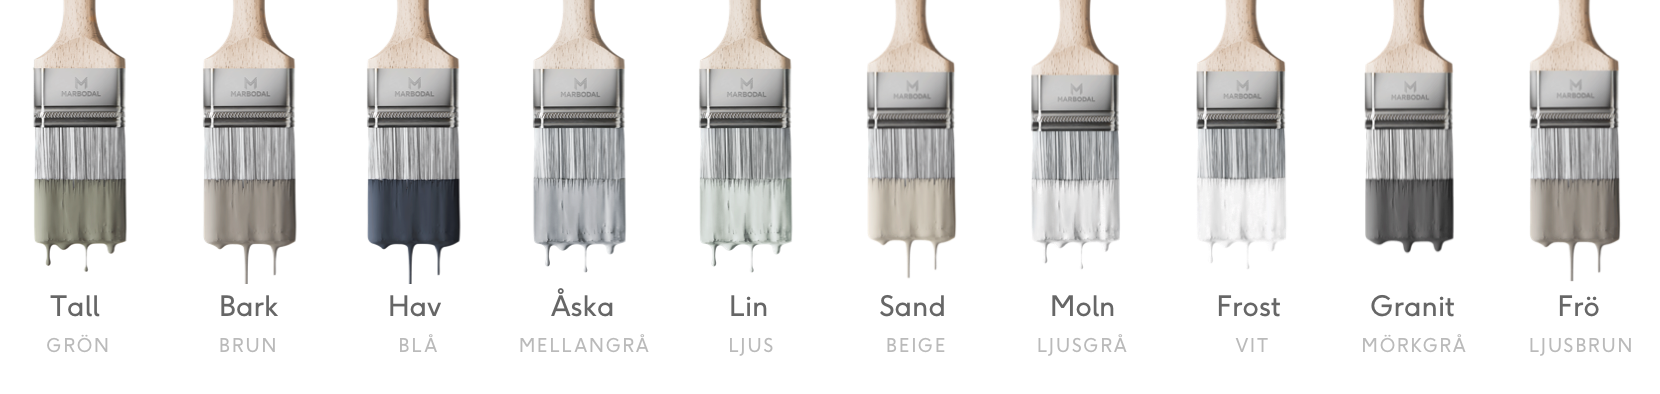
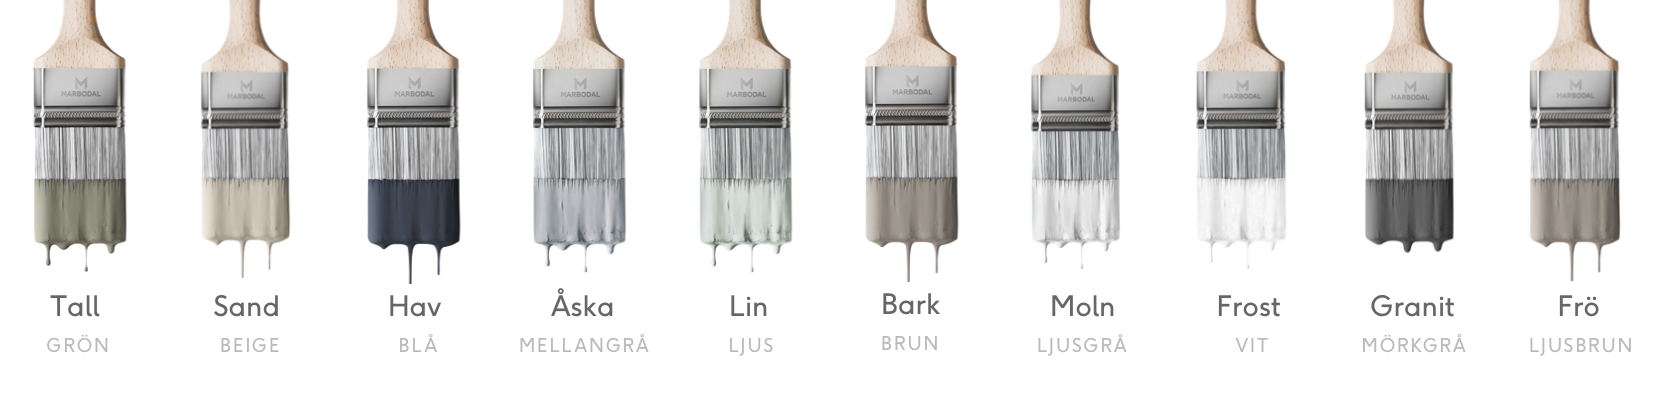
Added temp

diff --git a/fargaret/overview-instagram.html b/fargaret/overview-instagram.html
@@ -18,15 +18,9 @@
 <body>
     <div style="z-index: 10; position: relative; background: white">
         <component data-name="navigation"></component>
+        <component data-name="color-navigation"></component>
 
-        <div style="    height: 197px;
-        width: 100%;
-        overflow-x: overlay;
-        overflow-y: hidden;
-        position: relative;
-        margin-top: -90px;" class="color-navigation">
-            <img style="max-width: none; height: 100%;" src="images/color-nav.png">
-        </div>
+
         <img style="width: 100%;" src="images/mix-moodboard.png">
         <component data-name="text"></component>
     </div>
@@ -39,7 +33,7 @@
             <div class="section-container__content">
                 <h2>Tall</h2>
                 <p>NCS S 7005-Y20R</p>
-                <a class="static-slider__cta" href="#">Upplev tall</a>
+                <a class="static-slider__cta" href="color-tall.html">Upplev tall</a>
             </div>
         </div>
 
@@ -48,7 +42,7 @@
             <div class="section-container__content">
                 <h2>Sand</h2>
                 <p>NCS S 7005-Y20R</p>
-                <a class="static-slider__cta" href="#">Upplev sand</a>
+                <a class="static-slider__cta" href="color-sand.html">Upplev sand</a>
             </div>
         </div>
 

diff --git a/fargaret/color-sand.html b/fargaret/color-sand.html
@@ -1,0 +1,27 @@
+<!doctype html>
+
+<html lang="en">
+
+<head>
+    <meta charset="utf-8">
+
+    <title>Marbodal</title>
+    <meta name="description" content="Marbodal färgåret">
+    <link rel="stylesheet" href="base-styles.css?v=1.0">
+    <link rel="stylesheet" href="styles.css?v=1.0">
+    <meta name="viewport" content="width=device-width, initial-scale=1.0">
+    <script src="https://code.jquery.com/jquery-3.4.1.min.js"
+        integrity="sha256-CSXorXvZcTkaix6Yvo6HppcZGetbYMGWSFlBw8HfCJo=" crossorigin="anonymous"></script>
+
+</head>
+
+<body>
+    <component data-name="navigation"></component>
+
+    <img style="width: 100%;" src="images/sand-page.png">
+
+
+    <script src="scripts.js?v=1.0"></script>
+</body>
+
+</html>

diff --git a/fargaret/color-tall.html b/fargaret/color-tall.html
@@ -1,0 +1,27 @@
+<!doctype html>
+
+<html lang="en">
+
+<head>
+    <meta charset="utf-8">
+
+    <title>Marbodal</title>
+    <meta name="description" content="Marbodal färgåret">
+    <link rel="stylesheet" href="base-styles.css?v=1.0">
+    <link rel="stylesheet" href="styles.css?v=1.0">
+    <meta name="viewport" content="width=device-width, initial-scale=1.0">
+    <script src="https://code.jquery.com/jquery-3.4.1.min.js"
+        integrity="sha256-CSXorXvZcTkaix6Yvo6HppcZGetbYMGWSFlBw8HfCJo=" crossorigin="anonymous"></script>
+
+</head>
+
+<body>
+    <component data-name="navigation"></component>
+
+    <img style="width: 100%;" src="images/tall-page.png">
+
+
+    <script src="scripts.js?v=1.0"></script>
+</body>
+
+</html>

diff --git a/fargaret/components/color-navigation.html b/fargaret/components/color-navigation.html
@@ -1,0 +1,21 @@
+<div class="color-navigation" style="height: 197px;
+width: 100%;
+overflow-x: overlay;
+overflow-y: hidden;
+position: relative;
+margin-top: -90px;" class="color-navigation">
+    <img style="max-width: none; height: 100%;" src="images/color-nav.png">
+
+
+    <a style="position: absolute; left: 0; top: 0; display: inline-block; height: 100%; width: 20%;"
+        href="color-tall.html"></a>
+
+    <a style="position: absolute; left: 20%; top: 0; display: inline-block; height: 100%; width: 20%;"
+        href="color-sand.html"></a>
+</div>
+
+<style>
+    .color-navigation::-webkit-scrollbar {
+        width: 0 !important
+    }
+</style>

diff --git a/index.html b/index.html
@@ -16,18 +16,7 @@
 </head>
 
 <body>
-    <component data-name="navigation"></component>
-    <component data-name="hero" data-parameters='{"#": "test"}'></component>
-    <component data-name="text"></component>
-
-
-
-    <div class="modal-cards">
-        <component data-name="modal-card"></component>
-        <component data-name="modal-card"></component>
-        <component data-name="modal-card"></component>
-        <component data-name="modal-card"></component>
-    </div>
+    test
 
     <script src="scripts.js?v=1.0"></script>
 </body>

diff --git a/fargaret/scripts.js b/fargaret/scripts.js
@@ -1,4 +1,4 @@
-var components = ["navigation", "text", "hero", "modal-card"];
+var components = ["navigation", "text", "hero", "modal-card", "color-navigation"];
 
 
 $.each(components, function (index, value) {
